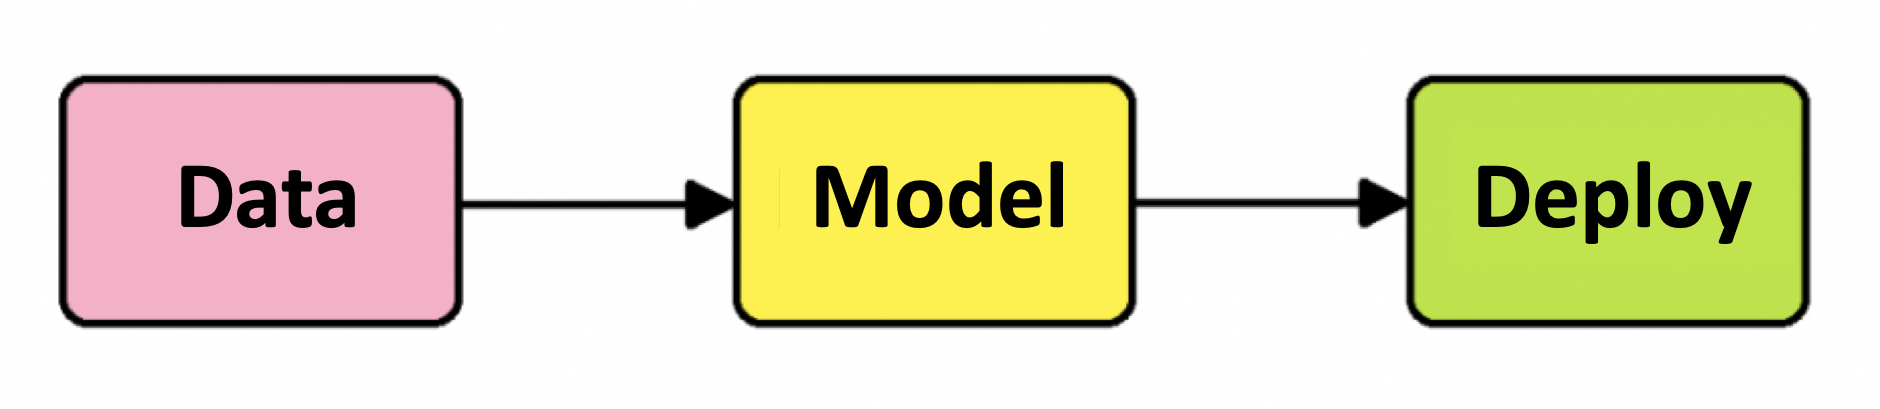
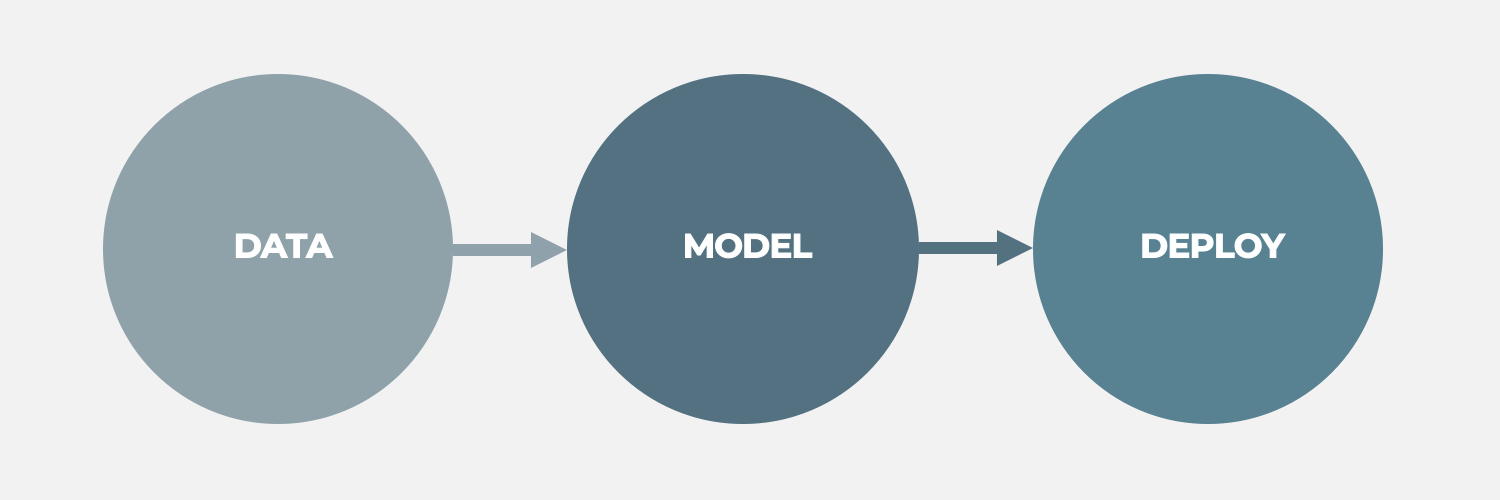
feat: create 510 theme

diff --git a/src/need/Need.js b/src/need/Need.js
@@ -43,17 +43,6 @@ export default class Need extends React.Component {
                     </div>
                 </section>
                 <div className="container">
-                    <img
-                        className="blame-image"
-                        alt="Who is to blame when an A.I. decision goes bad?"
-                        src="blame.png"
-                    />
-                    <div className="has-text-centered">
-                        <a href="http://www.drawingsofdogs.co.uk/">
-                            <small>Image Source: Drawings of Dogs</small>
-                        </a>
-                    </div>
-                    <br />
                     <p>
                         Artificial Intelligence or A.I. encompasses a wide range
                         of fields and methods. Formulating a consistent
@@ -72,19 +61,19 @@ export default class Need extends React.Component {
                     <map name="component-image-map">
                         <area
                             shape="rect"
-                            coords="63, 83, 460, 325"
+                            coords="100, 70, 458, 430"
                             alt="Data"
                             href="#/fact/data"
                         />
                         <area
                             shape="rect"
-                            coords="740, 83, 1135, 325"
+                            coords="565, 70, 923, 430"
                             alt="Model"
                             href="#/fact/model"
                         />
                         <area
                             shape="rect"
-                            coords="1415, 83, 1810, 325"
+                            coords="1030, 70, 1388, 430"
                             alt="Deploy"
                             href="#/fact/deploy"
                         />

diff --git a/src/app.scss b/src/app.scss
@@ -1,15 +1,14 @@
+@import "510.scss";
 @import "../node_modules/@fortawesome/fontawesome-free/css/all.css";
 @import "../node_modules/bulma-tooltip/dist/css/bulma-tooltip.min.css";
+
+html {
+    background: $white-ter;
+}
 
 .router-content {
     min-height: 550px;
     margin-bottom: 30px;
-}
-
-.blame-image {
-    display: block;
-    width: 50%;
-    margin: 0 auto;
 }
 
 .components-image {
@@ -47,7 +46,7 @@
     &:hover {
         &,
         & .icon {
-            color: #00d1b2;
+            color: $primary;
         }
     }
 }
@@ -57,7 +56,7 @@
 
     &:hover {
         .heading {
-            color: #00d1b2;
+            color: $primary;
         }
     }
 }

diff --git a/src/navbar/Navbar.js b/src/navbar/Navbar.js
@@ -68,7 +68,6 @@ export default class Navbar extends React.Component {
                                 <Link className="navbar-item" to="/glossary">
                                     Glossary
                                 </Link>
-                                <hr className="navbar-divider" />
                                 <Link className="navbar-item" to="/feedback">
                                     Feedback
                                 </Link>

diff --git a/src/fact/FACT.js b/src/fact/FACT.js
@@ -17,9 +17,10 @@ export default class FACT extends React.Component {
         super(props);
         this.state = {
             questions: [],
-            active_component: window.location.hash
-                ? window.location.hash.substr(7)
-                : "data",
+            active_component:
+                window.location.hash.length > 7
+                    ? window.location.hash.substr(7)
+                    : "data",
         };
     }
 

diff --git a/src/510.scss b/src/510.scss
@@ -1,0 +1,15 @@
+@charset "utf-8";
+
+@import "../node_modules/bulma/sass/utilities/initial-variables.sass";
+
+$red: #de656b;
+$green: #92d050;
+$orange: #ffc000;
+
+$primary: #4c8294;
+
+$background: $white-ter;
+$scheme-main: $white-ter;
+$scheme-main-bis: $white-ter;
+
+@import "../node_modules/bulma/bulma.sass";

diff --git a/src/App.js b/src/App.js
@@ -6,7 +6,6 @@ import FACT from "./fact/FACT";
 import Glossary from "./glossary/Glossary";
 import Feedback from "./feedback/Feedback";
 import Footer from "./footer/Footer";
-import "bulma";
 import "./app.scss";
 
 export default class App extends React.Component {
